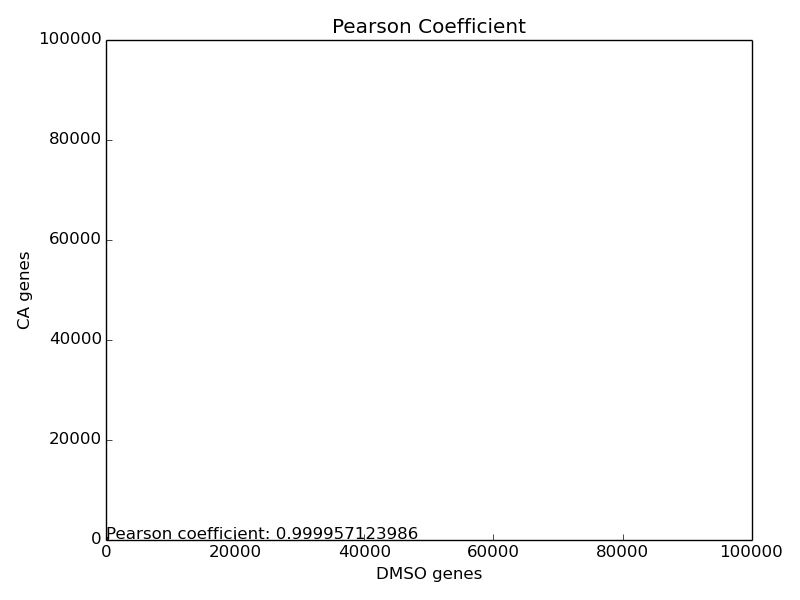
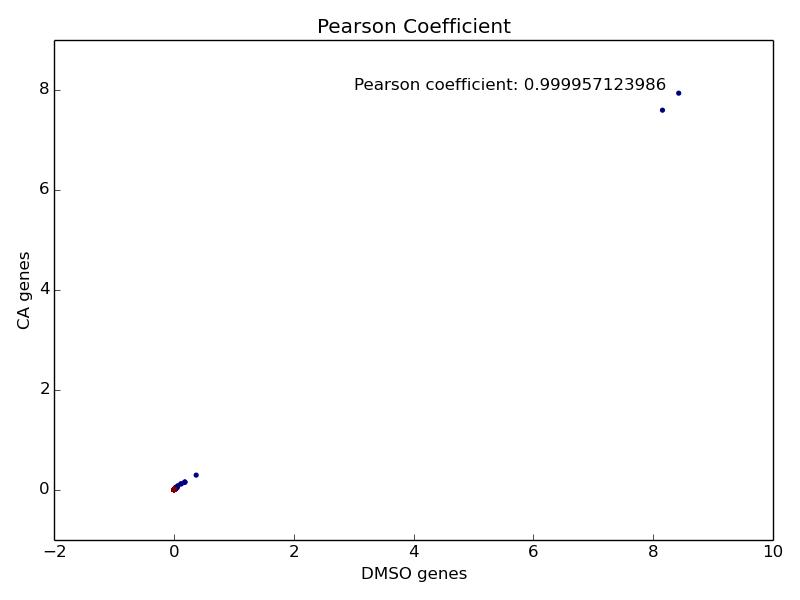
updates

diff --git a/src/master_writer.py b/src/master_writer.py
@@ -114,8 +114,7 @@ def run(DMSOgenes,DMSOTSS,DMSOEND,CAgenes,CATSS,CAEND,filedir,figuredir):
             if not ER > cutoff3 and not ER < -cutoff3:
                 ENDlist.append(ER)
     print "Genes: ",i
-    print pX[0:10]
-    print pY[0:10]
+    
     meanX = np.mean(pX)
     meanY = np.mean(pY)
     num = 0.0
@@ -351,13 +350,44 @@ def run(DMSOgenes,DMSOTSS,DMSOEND,CAgenes,CATSS,CAEND,filedir,figuredir):
     ax.scatter(pX,pY,c=z,edgecolor="",s=14)
     ax.get_xaxis().tick_bottom()
     ax.get_yaxis().tick_left()
-    ax.set_title('Pearson Coefficient')
-    ax.set_xlabel('DMSO genes')
-    ax.set_ylabel('CA genes')
-    #ax.set_xlim([0, 100000])
-    #ax.set_ylim([0, 100000])
-    ax.text(3,8, "Pearson coefficient: " + str(pearsons))
+    ax.set_title('Gene Transcription')
+    ax.set_xlabel('DMSO')
+    ax.set_ylabel('CA')
+    ax.set_xlim([0, 0.5])
+    ax.set_ylim([0, 0.5])
+    ax.text(0.2,0.2, "Pearson: " + str(pearsons))
     plt.savefig(figuredir + '/Pearson.png')
+    
+    meanX = np.mean(TRx)
+    meanY = np.mean(TRy)
+    num = 0.0
+    den1 = 0.0
+    den2 = 0.0
+    for i in range(len(TRx)):
+        X = TRx[i]
+        Y = TRy[i]
+        num += ((X - meanX)*(Y - meanY))
+        den1 += (X - meanX)**2
+        den2 += (Y-meanY)**2
+    pearsons = num/(np.sqrt(den1)*np.sqrt(den2))
+    
+    F6 = plt.figure()
+    ax1 = F6.add_subplot(121)
+    xy = np.vstack([TRx,TRy])
+    z = gaussian_kde(xy)(xy)
+    ax1.scatter(TRx,TRy,c=z,edgecolor="",s=14)
+    ax1.scatter(TRx2,TRy2,c='red',edgecolor="",s=14)
+    ax1.set_title('Pausing Index')
+    ax1.set_ylabel('CA')
+    ax1.set_xlabel('DMSO')
+    ax1.get_xaxis().tick_bottom()
+    ax1.get_yaxis().tick_left()
+    #ax1.plot([0,1/slope1],[intercept1,1],color = 'r')
+    ax1.set_xlim([0, 20])
+    ax1.set_ylim([0, 20])
+    ax1.plot([0,50.0],[0,50.0],color='k')
+    ax1.text(0.2,0.2, "Pearson: " + str(pearsons))
+    plt.savefig(figuredir + '/PausingIndex.png')
     
     
     
